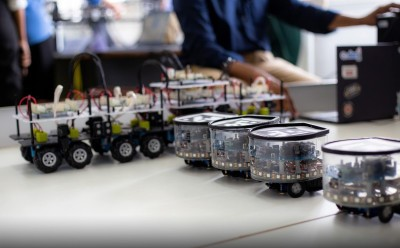
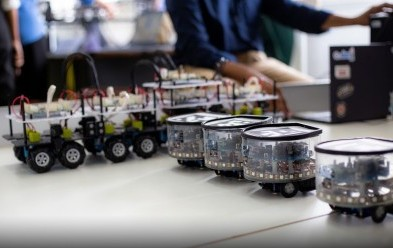
update portfolio

diff --git a/experience.html b/experience.html
@@ -64,11 +64,10 @@
 					<h2>Experience</h2>
 					<section class="features">
 						<h3 class="major">Senior Software Engineer - IFS R&D International (Pvt) Ltd</h3><br>
-						<h5>Jul 2025 - Jul 2026</h5><br>
 						<p>Worked within the R&D CTO Office on the Demo Platform team, contributing to the design,
 							delivery, and continuous improvement of the platform supporting demonstration
 							capabilities for IFS Cloud. Specialized in release engineering, DevOps automation, cloud
-							platform engineering, and AI-powered developer productivity solutions.<br>
+							platform engineering, and AI-powered developer productivity solutions.<br><br>
 
 							<b>Key Achievements</b><br>
 							- Led release engineering for two major enterprise releases and multiple monthly
@@ -100,7 +99,6 @@
 						</p><br><br>
 
 						<h3 class="major">Software Engineer - Xyicon LK (Pvt) Ltd</h3><br>
-						<h5>Sep 2022 - Jul 2025</h5><br>
 						<p>Contributed to the design, development, and delivery of enterprise software solutions for
 							the Xyicon platform, specializing in React, TypeScript, frontend architecture, automated
 							testing, and desktop application integration. Worked closely with cross-functional teams
@@ -108,7 +106,7 @@
 							quality, developer productivity, and user experience.- Delivered more than 10 production
 							features by leading end-to-end development from requirements gathering through
 							production deployment, partnering with product owners, designers, and engineers to build
-							scalable enterprise applications using React and TypeScript.<br>
+							scalable enterprise applications using React and TypeScript.<br><br>
 
 							<b>Key Achievements</b><br>
 							- Designed and implemented over 50 reusable React components, improving code reuse, UI
@@ -127,10 +125,9 @@
 
 						<h3 class="major">Temporary Instructor - Department of Computer Engineering, University of
 							Peradeniya</h3><br>
-							<h5>Sep 2021 - Sep 2021</h5><br>
 						<p>Contributed to teaching, research, and faculty-led engineering projects within the
 							Department of Computer Engineering while supporting undergraduate education and
-							multidisciplinary software engineering initiatives.<br>
+							multidisciplinary software engineering initiatives.<br><br>
 
 							<b>Key Achievements</b><br>
 							- Delivered lectures, laboratory sessions, tutorials, and practical classes for
@@ -156,10 +153,9 @@
 						<br><br>
 
 						<h3 class="major">Software Engineer Intern - Geveo Australasia Pvt Ltd</h3><br>
-						<h5>Apr 2021 - Aug 2021</h5><br>
 						<p>Contributed to the development of enterprise software solutions within an Agile
 							environment, working on projects including Torus and Apex Salary while gaining hands-on
-							experience across the full software development lifecycle.<br>
+							experience across the full software development lifecycle.<br><br>
 
 							<b>Key Achievements</b><br>
 							- Contributed to the development of enterprise web applications by implementing new
